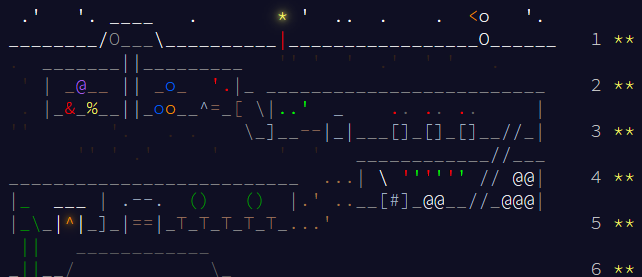
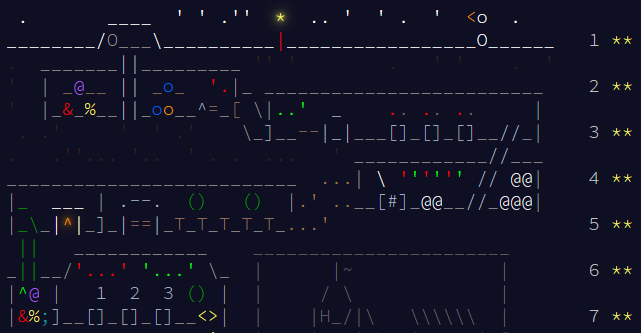
Day 7 complete

diff --git a/src/days/day07.ts b/src/days/day07.ts
@@ -1,0 +1,56 @@
+export function part1(input: string): number {
+    const lines = input.trimEnd().split(/\r?\n/);
+    return tachyonsSplit(lines);
+}
+
+export function part2(input: string): number {
+    const lines = input.trimEnd().split(/\r?\n/);
+    return quantumTachyonsSplit(lines);
+}
+
+function tachyonsSplit(lines: string[]): number {
+    let count = 0;
+    const lineLen = lines[0].length;
+    const tachyons = new Array<boolean>(lineLen).fill(false);
+    for (const line of lines) {
+        count += processLine(line, tachyons);
+    }
+    return count;
+}
+
+function processLine(line: string, tachyons: boolean[], onlyReturnStartIndex: boolean = false): number {
+    let timesSplit = 0;
+    for (let i = 0; i < line.length; i++) {
+        if (line[i] === 'S') {
+            tachyons[i] = true;
+            return onlyReturnStartIndex ? i : timesSplit;
+        }
+
+        if (line[i] === '^' && tachyons[i]) {
+            timesSplit++;
+            tachyons[i] = false;
+            if (i > 0) tachyons[i - 1] = true;
+            if (i < tachyons.length - 1) tachyons[i + 1] = true;
+        }
+    }
+    return timesSplit;
+}
+
+function quantumTachyonsSplit(lines: string[]): number {
+    let currentTach = processLine(lines[0], [], true);
+    return quantumTachLine(lines, 1, currentTach, new Map<string, number>());
+}
+
+function quantumTachLine(lines: string[], currentLine: number, currentTach: number, nodeMap: Map<string, number>): number {
+    if (currentTach < 0 || currentTach >= lines[currentLine].length) return 0;
+    if(!lines[currentLine]) return 1;
+    
+    if(lines[currentLine][currentTach] === '^') {
+        const address = `${currentLine},${currentTach}`;
+        if (nodeMap.has(address)) return nodeMap.get(address)!;
+        const result =  quantumTachLine(lines, currentLine + 1, currentTach - 1, nodeMap) + quantumTachLine(lines, currentLine + 1, currentTach + 1, nodeMap);
+        nodeMap.set(address, result);
+        return result;
+    }
+    return quantumTachLine(lines, currentLine + 1, currentTach, nodeMap);
+}

diff --git a/readme.md b/readme.md
@@ -11,6 +11,7 @@
 | [4](https://adventofcode.com/2025/day/4) | [day04.ts](src/days/day04.ts)   | **    |
 | [5](https://adventofcode.com/2025/day/5) | [day05.ts](src/days/day05.ts)   | **    |
 | [6](https://adventofcode.com/2025/day/6) | [day06.ts](src/days/day06.ts)   | **    |
+| [7](https://adventofcode.com/2025/day/7) | [day07.ts](src/days/day07.ts)   | **    |
 
 ## Requirements
 
